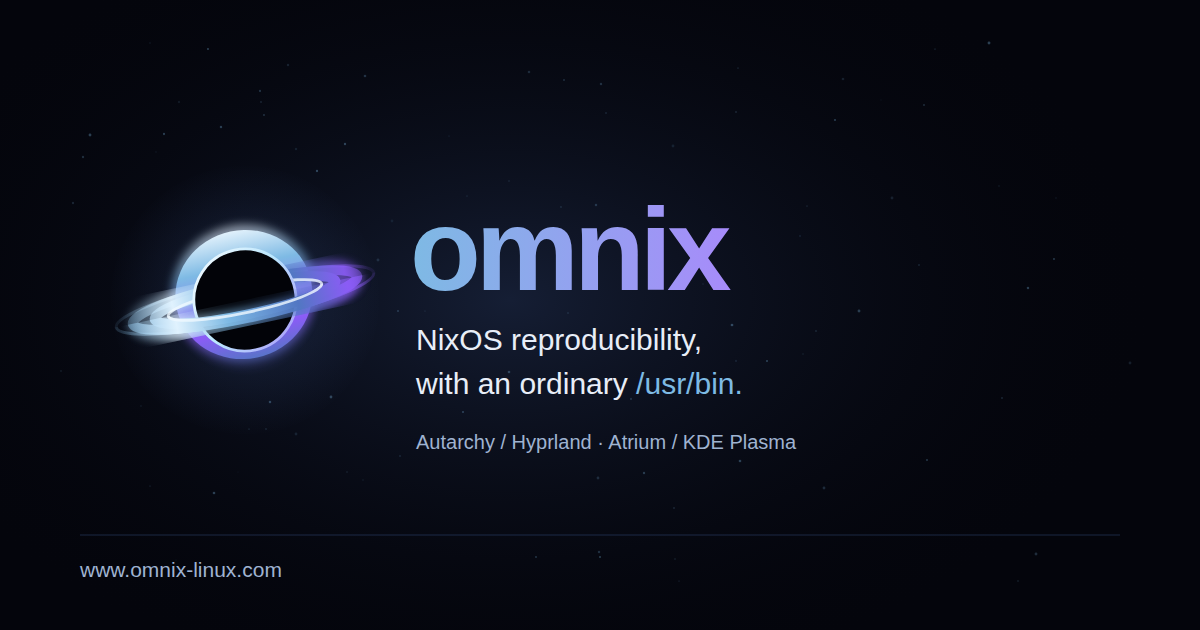
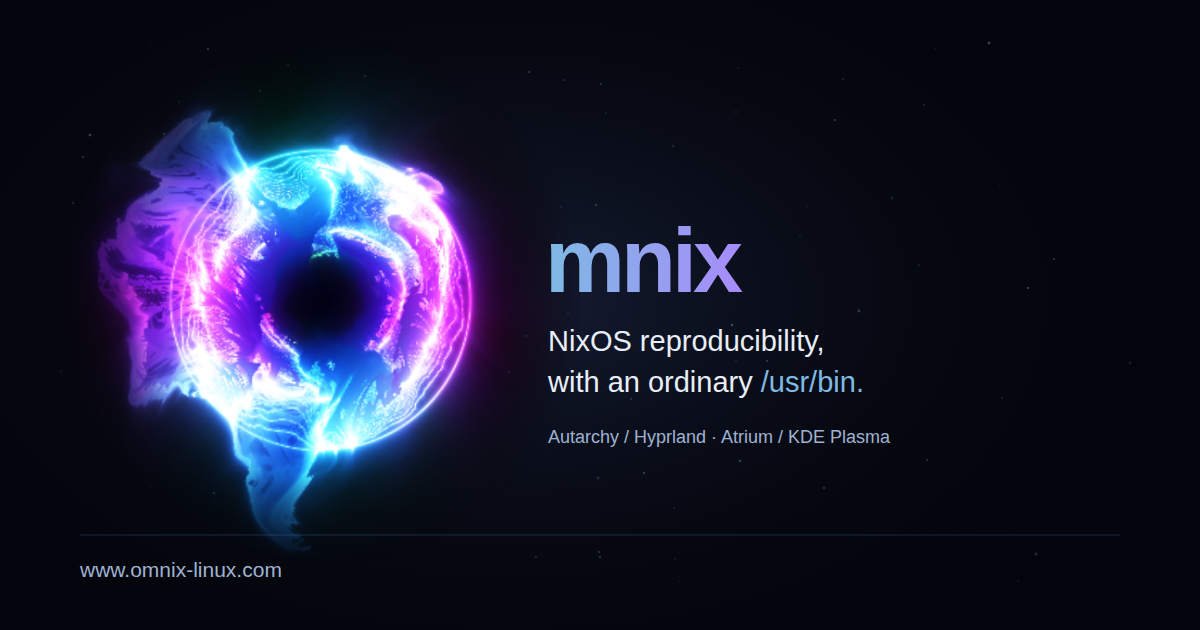
Make Coronal the oversized O in the Omnix hero

Changed region(s): [[0.0617, 0.1508, 0.74, 0.8746]]

diff --git a/index.html b/index.html
@@ -18,12 +18,12 @@
 <meta property="og:image:type" content="image/png">
 <meta property="og:image:width" content="1200">
 <meta property="og:image:height" content="630">
-<meta property="og:image:alt" content="Omnix logo with the tagline NixOS reproducibility, with an ordinary /usr/bin, on a dark starfield.">
+<meta property="og:image:alt" content="A large cyan-violet Coronal ring forming the O beside smaller mnix lettering, with the tagline NixOS reproducibility, with an ordinary /usr/bin.">
 <meta name="twitter:card" content="summary_large_image">
 <meta name="twitter:title" content="Omnix — NixOS with a standard Linux layout">
 <meta name="twitter:description" content="NixOS reproducibility, with an ordinary /usr/bin. Choose Autarchy or Atrium, use prebuilt packages when available, and compile when needed.">
 <meta name="twitter:image" content="https://www.omnix-linux.com/social-preview.png">
-<meta name="twitter:image:alt" content="Omnix logo with the tagline NixOS reproducibility, with an ordinary /usr/bin, on a dark starfield.">
+<meta name="twitter:image:alt" content="A large cyan-violet Coronal ring forming the O beside smaller mnix lettering, with the tagline NixOS reproducibility, with an ordinary /usr/bin.">
 <title>Omnix</title>
 <meta name="color-scheme" content="dark">
 <style>html, body { background: #04050c; color: #e8eef8; }
@@ -91,7 +91,7 @@
 <noscript><link rel="stylesheet" href="https://fonts.googleapis.com/css2?family=JetBrains+Mono:wght@400;500;700;800&family=Instrument+Sans:wght@400;500;600&family=Lexend:wght@800&display=swap"></noscript>
 <script defer src="https://cdnjs.cloudflare.com/ajax/libs/three.js/r128/three.min.js"></script>
 <style>
-  /* Layout: one idea per full-height panel over a fixed galaxy; text sits in a left column, evidence on the right. */
+  /* Layout: one idea per full-height panel over a dark starfield; text sits in a left column, evidence on the right. */
   :root {
     --void: #04050c;
     --ink: #e8eef8;
@@ -123,21 +123,17 @@
     -webkit-font-smoothing: antialiased;
   }
 
-  /* The galaxy */
+  /* Subtle static backdrop; the animated shader belongs to the logo. */
   body::before {
     content: ""; position: fixed; inset: 0; z-index: 0; pointer-events: none;
-    background: radial-gradient(ellipse 55% 42% at 50% 50%, #16236a 0%, #0a1033 45%, var(--void) 80%);
+    background: radial-gradient(ellipse 55% 42% at 28% 35%, #10152f 0%, #080b19 45%, var(--void) 80%);
   }
-  #sky {
-    position: fixed; inset: 0; width: 100vw; height: 100vh; display: block; z-index: 0;
-    opacity: 0; transition: opacity 1.2s ease;
-  }
-  #sky.ready, #motes.ready { opacity: 1; }
   .scrim {
     position: fixed; inset: 0; z-index: 1; pointer-events: none;
     background: linear-gradient(90deg, rgba(4, 5, 12, 0.88) 0%, rgba(4, 5, 12, 0.55) 48%, rgba(4, 5, 12, 0.15) 100%);
   }
-  #motes { position: fixed; inset: 0; width: 100vw; height: 100vh; display: block; z-index: 2; pointer-events: none; opacity: 0; transition: opacity .35s ease; }
+  #motes.ready { opacity: 1; }
+  #motes { position: fixed; inset: 0; width: 100vw; height: 100vh; display: block; z-index: 4; pointer-events: none; opacity: 0; transition: opacity .35s ease; }
   main { position: relative; z-index: 3; }
 
   section {
@@ -177,20 +173,22 @@
   /* Hero */
   .hero { align-items: center; justify-items: center; text-align: center; }
   .hero .hero-inner { justify-items: center; }
-  .hero .brand { flex-direction: column; justify-content: center; gap: 10px; }
+  .hero .brand { width: 100%; }
   .hero .cta { justify-content: center; }
   .hero-inner { max-width: 1240px; width: 100%; display: grid; gap: 28px; }
-  .brand { display: flex; align-items: center; gap: clamp(14px, 2.5vw, 28px); flex-wrap: wrap; }
-  .brand svg { width: clamp(64px, 8vw, 104px); height: auto; flex: none; filter: drop-shadow(0 0 30px rgba(139, 92, 246, 0.35)); }
-  .wordmark {
-    font-family: "Lexend", "Arial Black", system-ui, sans-serif; font-weight: 800; font-size: clamp(3.8rem, 1.6rem + 10vw, 11rem);
-    letter-spacing: -0.035em; line-height: 1; margin: 0;
+  .wordmark { display: flex; align-items: center; justify-content: center; width: 100%; margin: 0; gap: 0; font-family: "Lexend", "Arial Black", system-ui, sans-serif; font-weight: 800; line-height: 1; }
+  .logo-orbit { position: relative; flex: 0 0 auto; width: clamp(240px, 43vw, 560px); aspect-ratio: 1; display: block; margin-left: -8%; }
+  .logo-orbit canvas, .logo-orbit img { position: absolute; inset: 0; width: 100%; height: 100%; display: block; mask-image: radial-gradient(circle, #000 48%, transparent 72%); -webkit-mask-image: radial-gradient(circle, #000 48%, transparent 72%); }
+  .logo-orbit canvas { opacity: 0; transition: opacity .8s ease; }
+  .logo-orbit.shader-ready canvas { opacity: 1; }
+  .logo-orbit.shader-ready img { opacity: 0; }
+  .wordmark-text { position: relative; z-index: 1; flex: 0 0 auto; font-size: clamp(3rem, 7.5vw, 6.7rem); letter-spacing: -.045em; margin-left: -8%; background: linear-gradient(90deg, #7edeea, #91a8ef 55%, #c084fc); -webkit-background-clip: text; background-clip: text; color: transparent; }
+  .particles-on .wordmark-text { color: transparent; background: none; -webkit-text-fill-color: transparent; }
+  @media (max-width: 640px) {
+    .hero-inner { gap: 24px; }
+    .logo-orbit { width: 70vw; margin-left: -13%; }
+    .wordmark-text { font-size: clamp(2rem, 8.8vw, 3.5rem); margin-left: -16%; }
   }
-  /* With the particle layer running, the particles are the letters; the glyphs themselves are not drawn. */
-  .particles-on .wordmark, .particles-on .wordmark span {
-    color: transparent; background: none; -webkit-text-fill-color: transparent;
-  }
-  .wordmark span { background: linear-gradient(90deg, var(--ice), var(--nix) 50%, var(--violet)); -webkit-background-clip: text; background-clip: text; color: transparent; }
   .tagline { font-family: var(--font-display); font-weight: 500; font-size: var(--step-1); margin: 0; max-width: 32ch; text-wrap: balance; }
   .tagline code { color: var(--ice); }
   .cta { display: flex; gap: 12px; flex-wrap: wrap; }
@@ -279,7 +277,7 @@
   .foot a:hover { color: var(--ice); }
 
   /* Section rail */
-  .rail { position: fixed; right: max(12px, 2vw); top: 50%; transform: translateY(-50%); z-index: 4; display: grid; gap: 14px; }
+  .rail { position: fixed; right: max(12px, 2vw); top: 50%; transform: translateY(-50%); z-index: 5; display: grid; gap: 14px; }
   .rail a { width: 9px; height: 9px; border-radius: 50%; background: rgba(156, 173, 200, 0.35); display: block; transition: background .25s, transform .25s; }
   .rail a.on { background: var(--ice); transform: scale(1.5); }
   @media (max-width: 640px) { .rail { display: none; } }
@@ -288,7 +286,6 @@
 </style>
 </head>
 <body>
-<canvas id="sky" aria-hidden="true"></canvas>
 <div class="scrim"></div>
 <canvas id="motes" aria-hidden="true"></canvas>
 
@@ -307,7 +304,13 @@
   <section class="hero" id="top">
     <div class="hero-inner">
       <div class="brand">
-        <h1 class="wordmark">om<span>nix</span></h1>
+        <h1 class="wordmark" aria-label="Omnix">
+          <span class="logo-orbit" aria-hidden="true">
+            <img src="coronal-poster.png" width="560" height="560" alt="" fetchpriority="high">
+            <canvas id="coronal" aria-hidden="true"></canvas>
+          </span>
+          <span class="wordmark-text" aria-hidden="true">mnix</span>
+        </h1>
       </div>
       <p class="tagline">NixOS reproducibility, with an ordinary <code>/usr/bin</code>.</p>
       <div class="cta">
@@ -513,8 +516,8 @@ ls: cannot access '/usr/lib': No such file or directory</pre>
     </div>
     <div>
       <h4>Background</h4>
-      <p>“<a href="https://fragcoord.xyz/s/g9r37vkv">Galaxy</a>” by <a href="https://fragcoord.xyz/u/Crazy">@Crazy</a>, after an
-        <a href="https://fragcoord.xyz/s/p2jobbec">original</a> by <a href="https://fragcoord.xyz/u/Xor">@Xor</a>. Ported to three.js.</p>
+      <p>The animated O uses “<a href="https://fragcoord.xyz/s/3otcb9tt">Coronal</a>” by <a href="https://fragcoord.xyz/u/Xor">@Xor</a>,
+        derived from <a href="https://fragcoord.xyz/s/3zoe0vgo">3D Fire</a>. Ported to three.js.</p>
     </div>
   </div>
 </footer>
@@ -716,89 +719,17 @@ afterFirstPaint(function () {
     document.querySelectorAll("main section").forEach(function (s) { io.observe(s); });
   }
 
-  // Galaxy background: "Galaxy" by @Crazy (fragcoord.xyz/s/g9r37vkv), after @Xor (fragcoord.xyz/s/p2jobbec).
-  var canvas = document.getElementById("sky");
-  if (typeof THREE === "undefined") { document.documentElement.classList.add("no-gl"); return; }
-  var renderer;
-  try { renderer = new THREE.WebGLRenderer({ canvas: canvas, antialias: false, powerPreference: "high-performance" }); }
-  catch (e) { document.documentElement.classList.add("no-gl"); return; }
-  if (!renderer.capabilities.isWebGL2) { document.documentElement.classList.add("no-gl"); return; }
-
-  var uniforms = {
-    u_resolution: { value: new THREE.Vector2() },
-    u_time: { value: 0 },
-    u_time_delta: { value: 0.016 }
-  };
-  var material = new THREE.ShaderMaterial({
-    glslVersion: THREE.GLSL3,
-    uniforms: uniforms,
-    depthTest: false,
-    depthWrite: false,
-    vertexShader: "void main() { gl_Position = vec4(position.xy, 0.0, 1.0); }",
-    fragmentShader: [
-      "uniform vec2 u_resolution;",
-      "uniform float u_time;",
-      "uniform float u_time_delta;",
-      "out highp vec4 fragColor;",
-      "void main() {",
-      "  fragColor = vec4(0.355, 0.3623, 0.635, 0.84);",
-      "  float i = 0.0, z = 0.0, d = 0.0;",
-      "  for (; i++ < 2e1; fragColor += (cos(d / .3 + vec4(3.2, 22.8, 7.0, 19.0)) + 1.) / d * z) {",
-      "    vec3 p = z * normalize(gl_FragCoord.rgb * 2. - vec3(u_resolution, 0.69).xyy),",
-      "         a = cos(vec3(4, 2, 0) + u_time - d * 5.68);",
-      "    p.z += 5.; a = p * dot(a, p) + u_time_delta;",
-      "    for (d = 1.; d++ < 13.185;) a += cos(a * d + u_time).yzx / d;",
-      "    z += d = 0.21 * abs(length(p) - 3.) + .04 * abs(a.y);",
-      "  }",
-      "  fragColor = tan(fragColor / 8258.25);",
-      "  fragColor.a = 1.0;",
-      "}"
-    ].join("\n")
-  });
-  var scene = new THREE.Scene();
-  var camera = new THREE.Camera();
-  var quad = new THREE.Mesh(new THREE.PlaneGeometry(2, 2), material);
-  quad.frustumCulled = false;
-  scene.add(quad);
-
-  // The shader is heavy (20 x 12 steps per pixel), so render below native
-  // resolution and step down further if frames run slow.
-  var scale = Math.min(window.devicePixelRatio || 1, 1.5) * 0.6;
-  function resize() {
-    renderer.setPixelRatio(scale);
-    renderer.setSize(window.innerWidth, window.innerHeight, false);
-    renderer.getDrawingBufferSize(uniforms.u_resolution.value);
-  }
-  resize();
-  window.addEventListener("resize", resize);
-
-  var reduce = window.matchMedia("(prefers-reduced-motion: reduce)");
-  var start = performance.now(), last = start, slow = 0, raf = 0;
-  function frame(now) {
-    var dt = (now - last) / 1000; last = now;
-    uniforms.u_time.value = (now - start) / 1000 + 8.0;
-    uniforms.u_time_delta.value = Math.min(dt, 0.1);
-    renderer.render(scene, camera);
-    if (!canvas.classList.contains("ready")) canvas.classList.add("ready");
-    if (dt > 0.034 && scale > 0.3) { if (++slow > 20) { scale = Math.max(0.3, scale * 0.8); resize(); slow = 0; } }
-    else slow = Math.max(0, slow - 1);
-    raf = requestAnimationFrame(frame);
-  }
-  function play() { if (!raf && !document.hidden && !reduce.matches) raf = requestAnimationFrame(frame); }
-  function pause() { cancelAnimationFrame(raf); raf = 0; }
-  document.addEventListener("visibilitychange", function () { document.hidden ? pause() : (last = performance.now(), play()); });
-  if (reduce.matches) {
-    uniforms.u_time.value = 12.0; renderer.render(scene, camera); canvas.classList.add("ready");
-  } else { play(); }
-  reduce.addEventListener && reduce.addEventListener("change", function () { reduce.matches ? pause() : play(); });
 });
 </script>
+<script src="coronal.js" defer></script>
+
 <script>
 afterFirstPaint(function () {
-  // Stars that orbit with the galaxy, gather into the "omnix" wordmark, hold, and scatter again.
+  // Stars that orbit with the galaxy, gather into the "mnix" lettering, hold, and scatter again.
   var canvas = document.getElementById("motes");
-  var word = document.querySelector(".wordmark");
+  var word = document.querySelector(".wordmark-text");
   var root = document.documentElement;
+  var reduce = window.matchMedia("(prefers-reduced-motion: reduce)");
   // Without particles, fall back to the filled wordmark.
   function fallback() { root.classList.remove("particles-on"); }
   if (typeof THREE === "undefined" || !word || !root.classList.contains("particles-on")) { fallback(); return; }
@@ -846,7 +777,7 @@ afterFirstPaint(function () {
       "  vec2 pos = mix(g, t, m) + vec2(-d.y, d.x) * 0.22 * sin(m * 3.14159) * (aSeed.x - 0.5) * 2.;",
       "  gl_Position = projectionMatrix * modelViewMatrix * vec4(pos, 0., 1.);",
       "  gl_PointSize = uPx * mix(0.9 + aSeed.x * 1.9, 1.9 + aSeed.y * 0.7, m);",
-      "  vA = mix(0.25 + 0.55 * aSeed.y, 0.8 * sqrt(uDensity), m);",
+      "  vA = mix(0.25 + 0.55 * aSeed.y, 0.8 * max(0.35, sqrt(uDensity)), m);",
       // Independent 5–10 second shimmers; a few stars vary more, and none exceed their base brightness.
       "  float phase = aSeed.z * 6.28318;",
       "  float shimmer = 0.5 + 0.5 * sin(uTime * mix(0.63, 1.26, aSeed.x) + phase);",
@@ -877,7 +808,7 @@ afterFirstPaint(function () {
       "gl_PointSize = uPx * mix(0.9 + aSeed.x * 1.9, 1.9 + aSeed.y * 0.7, m);",
       "gl_PointSize = uPx * mix(12. + aSeed.x * 8., (24. + aSeed.y * 8.) * uGlowScale, m);"
     ).replace(
-      "vA = mix(0.25 + 0.55 * aSeed.y, 0.8 * sqrt(uDensity), m);",
+      "vA = mix(0.25 + 0.55 * aSeed.y, 0.8 * max(0.35, sqrt(uDensity)), m);",
       "vA = mix(0.001, 0.009 * uDensity / (uGlowScale * uGlowScale), m * m);"
     ),
     fragmentShader: [
@@ -916,7 +847,7 @@ afterFirstPaint(function () {
     ctx.font = cs.fontWeight + " " + cs.fontSize + " " + cs.fontFamily;
     ctx.textBaseline = "alphabetic"; ctx.fillStyle = "#fff";
     // A character's range rect spans the font's ascent and descent, so its baseline sits one ascent below its top.
-    var metrics = ctx.measureText("omnix");
+    var metrics = ctx.measureText("mnix");
     var ascent = metrics.fontBoundingBoxAscent || metrics.actualBoundingBoxAscent || parseFloat(cs.fontSize) * 0.8;
     var walker = document.createTreeWalker(word, NodeFilter.SHOW_TEXT), node, range = document.createRange();
     while ((node = walker.nextNode())) {
@@ -966,7 +897,7 @@ afterFirstPaint(function () {
   window.addEventListener("load", function () { loadedAt = performance.now(); }, { once: true });
   var ENTRANCE_DELAY_MS = 500;
 
-  // One cycle: formed, scatter, drift with the galaxy, gather, formed again.
+  // One cycle: formed, scatter, drift, gather, formed again.
   var CYCLE = 12.0;
   function mixAt(t) {
     var x = t % CYCLE;
@@ -981,7 +912,9 @@ afterFirstPaint(function () {
   function frame(now) {
     var t = (now - start) / 1000;
     var rect = word.getBoundingClientRect();
-    var heroVisible = rect.bottom > -40 && rect.top < window.innerHeight;
+    var hero = word.closest(".hero").getBoundingClientRect();
+    var heroVisible = hero.bottom > 0 && hero.top < window.innerHeight;
+    canvas.style.clipPath = "inset(" + Math.max(0, hero.top) + "px 0 " + Math.max(0, window.innerHeight - hero.bottom) + "px 0)";
     var elapsed = loadedAt === null ? 0 : Math.max(0, now - loadedAt);
     var mix = shaped && heroVisible
       ? (elapsed < ENTRANCE_DELAY_MS ? 0 : mixAt(8.0 + (elapsed - ENTRANCE_DELAY_MS) / 1000)) : 0;
@@ -994,9 +927,13 @@ afterFirstPaint(function () {
     if (!canvas.classList.contains("ready")) canvas.classList.add("ready");
     raf = requestAnimationFrame(frame);
   }
-  function play() { if (!raf && !document.hidden) raf = requestAnimationFrame(frame); }
+  function play() { if (!raf && !document.hidden && !reduce.matches) raf = requestAnimationFrame(frame); }
   function pause() { cancelAnimationFrame(raf); raf = 0; }
   document.addEventListener("visibilitychange", function () { document.hidden ? pause() : play(); });
+  reduce.addEventListener("change", function () {
+    if (reduce.matches) { pause(); fallback(); canvas.classList.remove("ready"); }
+    else { root.classList.add("particles-on"); play(); }
+  });
   window.addEventListener("resize", resize);
   // Mobile browser chrome and orientation changes can resize the visible viewport.
   if (window.visualViewport) window.visualViewport.addEventListener("resize", resize);

diff --git a/coronal.js b/coronal.js
@@ -1,0 +1,82 @@
+/* Coronal by @Xor: https://fragcoord.xyz/s/3otcb9tt
+ * Derived from 3D Fire: https://fragcoord.xyz/s/3zoe0vgo
+ * Expanded from the source's Golf syntax into GLSL. No audio input is needed.
+ */
+afterFirstPaint(function () {
+  var canvas = document.getElementById("coronal");
+  var orbit = canvas && canvas.parentElement;
+  var reduce = window.matchMedia("(prefers-reduced-motion: reduce)");
+  if (!orbit || typeof THREE === "undefined" || reduce.matches) return;
+  var renderer;
+  try { renderer = new THREE.WebGLRenderer({ canvas: canvas, alpha: true, antialias: false }); }
+  catch (e) { return; } // Keep the pre-rendered O when WebGL is unavailable.
+  var uniforms = { uResolution: { value: new THREE.Vector2() }, uTime: { value: 6 } };
+  var material = new THREE.ShaderMaterial({
+    uniforms: uniforms, depthTest: false, depthWrite: false,
+    vertexShader: "void main() { gl_Position = vec4(position.xy, 0., 1.); }",
+    fragmentShader: [
+      "uniform vec2 uResolution; uniform float uTime;",
+      "void main() {",
+      "  vec3 ray = normalize(vec3(2. * gl_FragCoord.xy - uResolution, -uResolution.y));",
+      "  vec3 glow = vec3(0.);",
+      "  float z = 2.;",
+      "  for (int i = 0; i < 40; i++) {",
+      "    vec3 p = z * ray, original = p;",
+      "    float frequency = 2.;",
+      "    for (int j = 0; j < 6; j++) {",
+      "      frequency *= 2.;",
+      "      p += sin(p.zxy * frequency + z - uTime) / frequency;",
+      "    }",
+      "    z += abs(1. - length(p.xy)) / 3.;",
+      "    glow += (1.1 - cos(p)) / (z * z * max(abs(length(original.xy) - 1.), 0.001));",
+      "  }",
+      // Equivalent to tanh(glow / 30), with a bounded exponent for mobile GPUs.
+      "  vec3 color = 1. - 2. / (exp(2. * min(glow / 30., vec3(10.))) + 1.);",
+      "  gl_FragColor = vec4(color, 1.);",
+      "}"
+    ].join("\n")
+  });
+  var scene = new THREE.Scene(), camera = new THREE.Camera();
+  var quad = new THREE.Mesh(new THREE.PlaneGeometry(2, 2), material);
+  quad.frustumCulled = false; scene.add(quad);
+  // Bound the expensive 40 × 6 raymarch to the O, never the full viewport.
+  var scale = Math.min(window.devicePixelRatio || 1, 1.5) * 0.65;
+  var visible = false, raf = 0, last = 0, slow = 0;
+  function draw() {
+    renderer.render(scene, camera);
+    orbit.classList.add("shader-ready");
+  }
+  function resize() {
+    var size = Math.max(1, orbit.getBoundingClientRect().width);
+    renderer.setPixelRatio(scale); renderer.setSize(size, size, false);
+    renderer.getDrawingBufferSize(uniforms.uResolution.value);
+    draw();
+  }
+  function frame(now) {
+    raf = 0;
+    if (!visible || document.hidden || reduce.matches) return;
+    // A modest 30fps cap also leaves time for the lettering's particle animation.
+    if (now - last >= 1000 / 30) {
+      if (last && now - last > 70) slow++; else slow = Math.max(0, slow - 1);
+      uniforms.uTime.value = now / 1000 + 6;
+      if (slow > 12 && scale > 0.35) { scale = Math.max(0.35, scale * 0.8); resize(); slow = 0; }
+      draw(); last = now;
+    }
+    raf = requestAnimationFrame(frame);
+  }
+  function play() { if (!raf && visible && !document.hidden && !reduce.matches) { last = 0; raf = requestAnimationFrame(frame); } }
+  function pause() { cancelAnimationFrame(raf); raf = 0; }
+  canvas.addEventListener("webglcontextlost", function (event) { event.preventDefault(); pause(); orbit.classList.remove("shader-ready"); });
+  canvas.addEventListener("webglcontextrestored", function () { resize(); play(); });
+  document.addEventListener("visibilitychange", function () { document.hidden ? pause() : play(); });
+  reduce.addEventListener("change", function () {
+    if (reduce.matches) { pause(); orbit.classList.remove("shader-ready"); }
+    else { draw(); play(); }
+  });
+  if ("IntersectionObserver" in window) {
+    new IntersectionObserver(function (entries) { visible = entries[0].isIntersecting; visible ? play() : pause(); }).observe(orbit);
+  } else { visible = true; }
+  if (typeof ResizeObserver !== "undefined") new ResizeObserver(resize).observe(orbit);
+  window.addEventListener("resize", resize);
+  resize(); play();
+});

diff --git a/README.md b/README.md
@@ -2,6 +2,8 @@
 
 The Omnix website, served at https://www.omnix-linux.com.
 
-A single static page (`index.html`). The background is "Galaxy" by [@Crazy](https://fragcoord.xyz/u/Crazy) ([shader](https://fragcoord.xyz/s/g9r37vkv)), after an [original](https://fragcoord.xyz/s/p2jobbec) by [@Xor](https://fragcoord.xyz/u/Xor), ported to three.js.
+A static page (`index.html`) with a three.js shader in `coronal.js`. The oversized O uses [Coronal](https://fragcoord.xyz/s/3otcb9tt) by [@Xor](https://fragcoord.xyz/u/Xor), derived from [3D Fire](https://fragcoord.xyz/s/3zoe0vgo). The shader is expanded from Golf syntax into GLSL and rendered only inside the logo, with adaptive resolution and a 30fps cap. The smaller `mnix` lettering uses the existing gathering and twinkling particle animation.
+
+`coronal-poster.png` is a static render at shader time 6 seconds. It supplies the initial image and the fallback for reduced motion, unavailable WebGL, or context loss. To refresh it, render the shader at that time and capture the square canvas. Both the logo and its particle targets resize with the layout.
 
 Link previews use Open Graph and Twitter Card metadata in the static HTML head. `social-preview.png` is the public 1200 × 630 preview image; `social-preview.svg` is its editable source. After editing the SVG, render it to an opaque PNG at the same dimensions and update both files.
